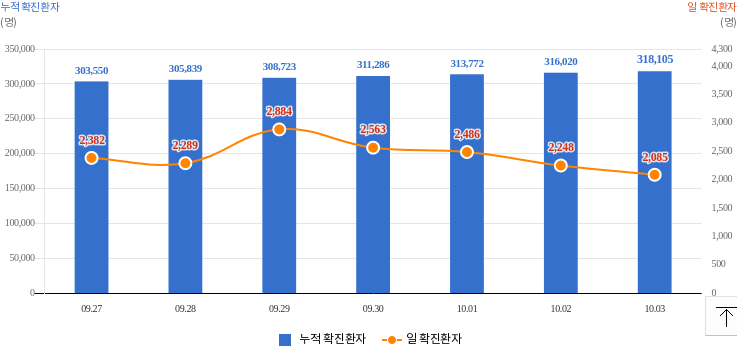
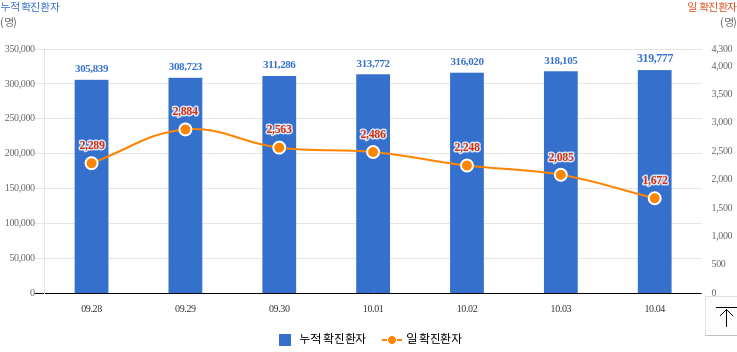
Run crawler and update current data

diff --git a/data.js b/data.js
@@ -7,7 +7,7 @@ var 검사중 = '1,013';
 var 검사결과 = '454,124';
 var 자가격리자 = '402';
 var 거리두기단계 = '사회적 거리두기  3단계 시행 : 2021.10.4.(월) 0시 ~ 10.17.(일) 24시';
-var 국내발생 = '2,058';
-var 해외발생 = '28';
-var 합계 = '2086';
+var 국내발생 = '1,653';
+var 해외발생 = '20';
+var 합계 = '1673';
 var data = [];
